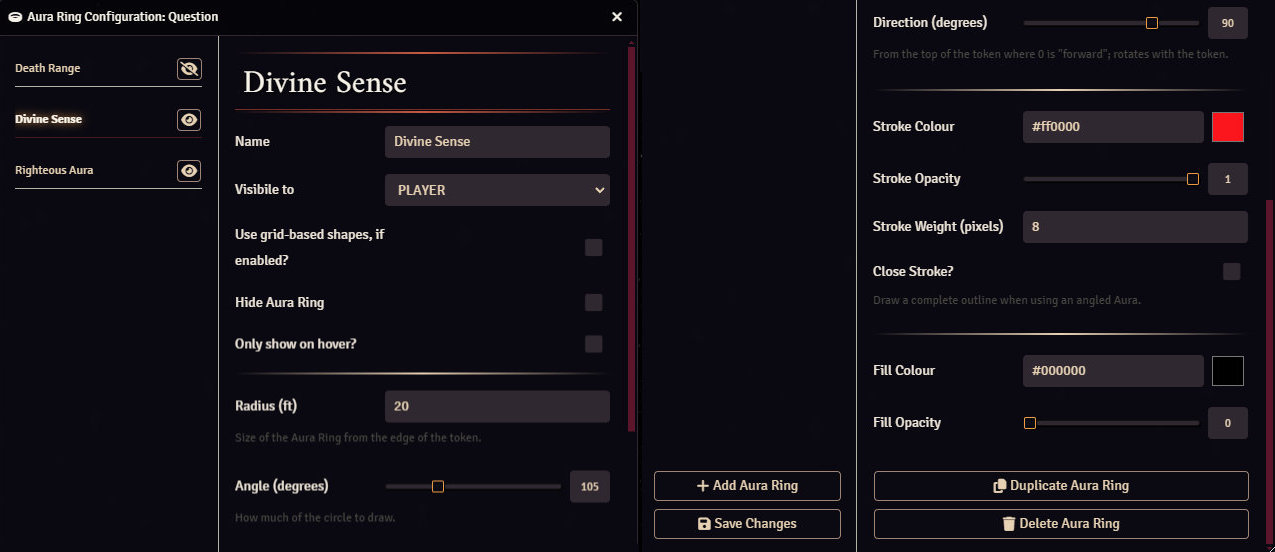
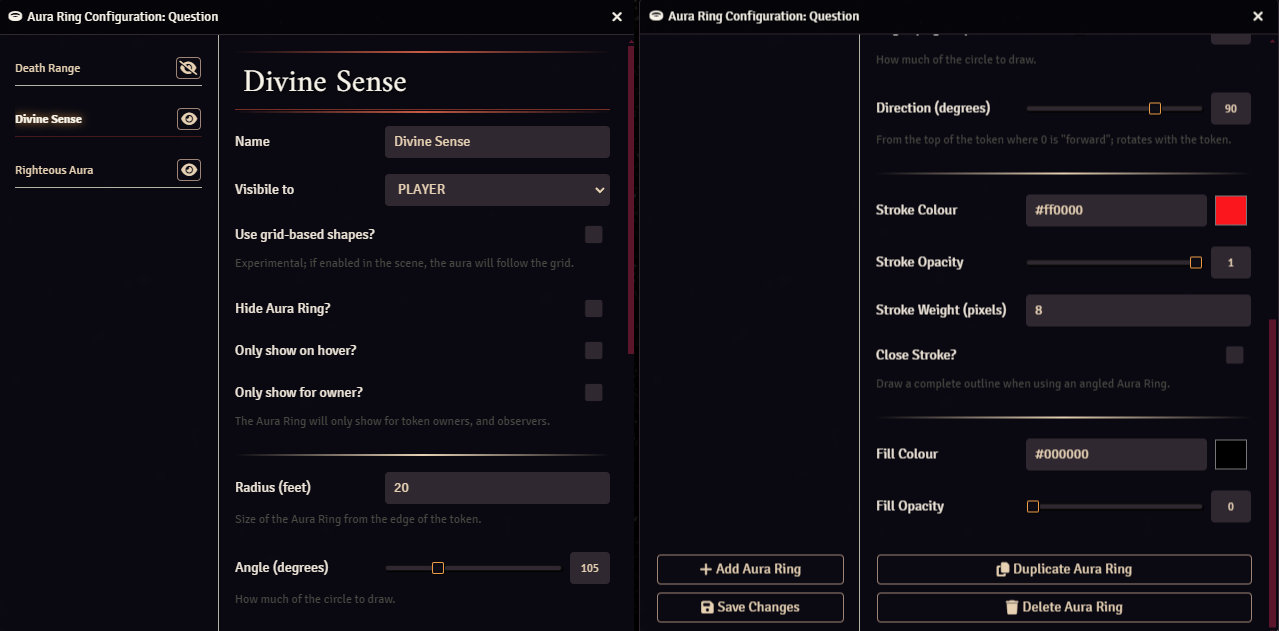
Added owner only visibility

diff --git a/AuraRingDataModel.js b/AuraRingDataModel.js
@@ -10,6 +10,7 @@ export class AuraRingDataModel extends foundry.abstract.DataModel
             'use_grid_shapes',
             'hide',
             'hover_only',
+            'owner_only',
         ],
         [
             'radius',
@@ -41,6 +42,7 @@ export class AuraRingDataModel extends foundry.abstract.DataModel
             hover_only: AuraRingDataModel.hoverOnlyField(defaults.hover_only),
             id: AuraRingDataModel.idField(defaults.id),
             name: AuraRingDataModel.nameField(defaults.name),
+            owner_only: AuraRingDataModel.ownerOnlyField(defaults.owner_only),
             radius: AuraRingDataModel.radiusField(defaults.radius),
             stroke_close: AuraRingDataModel.strokeCloseField(defaults.stroke_close),
             stroke_colour: AuraRingDataModel.strokeColourField(defaults.stroke_colour),
@@ -62,6 +64,7 @@ export class AuraRingDataModel extends foundry.abstract.DataModel
             hover_only: false,
             id: 0,
             name: 'Aura',
+            owner_only: false,
             radius: 20,
             stroke_close: false,
             stroke_colour: '#ff0000',
@@ -224,7 +227,7 @@ export class AuraRingDataModel extends foundry.abstract.DataModel
     {
         return AuraRingField.booleanField(
             AuraRingField.dataFieldOptions(
-                'Hide Aura Ring',
+                'Hide Aura Ring?',
                 initial,
             ),
             AuraRingField.dataFieldContext(
@@ -286,6 +289,20 @@ export class AuraRingDataModel extends foundry.abstract.DataModel
         );
     }
 
+    static ownerOnlyField(initial)
+    {
+        return AuraRingField.booleanField(
+            AuraRingField.dataFieldOptions(
+                'Only show for owner?',
+                initial,
+                'The Aura Ring will only show for token owners, and observers.',
+            ),
+            AuraRingField.dataFieldContext(
+                'stroke_close',
+            ),
+        );
+    }
+
     static radiusField(initial)
     {
         return AuraRingField.numberField(
@@ -309,7 +326,7 @@ export class AuraRingDataModel extends foundry.abstract.DataModel
             AuraRingField.dataFieldOptions(
                 'Close Stroke?',
                 initial,
-                'Draw a complete outline when using an angled Aura.',
+                'Draw a complete outline when using an angled Aura Ring.',
             ),
             AuraRingField.dataFieldContext(
                 'stroke_close',
@@ -377,8 +394,9 @@ export class AuraRingDataModel extends foundry.abstract.DataModel
     {
         return AuraRingField.booleanField(
             AuraRingField.dataFieldOptions(
-                'Use grid-based shapes, if enabled?',
+                'Use grid-based shapes?',
                 initial,
+                'Experimental; if enabled in the scene, the aura will follow the grid.'
             ),
             AuraRingField.dataFieldContext(
                 'use_grid_shapes',

diff --git a/AuraRingCanvas.js b/AuraRingCanvas.js
@@ -273,6 +273,13 @@ export class AuraRingCanvas
         ) {
             return false;
         }
+
+        if (
+            auraRing.owner_only === true
+            && this.token.observer !== true
+        ) {
+            return false;
+        }
         
         return true;
     }
